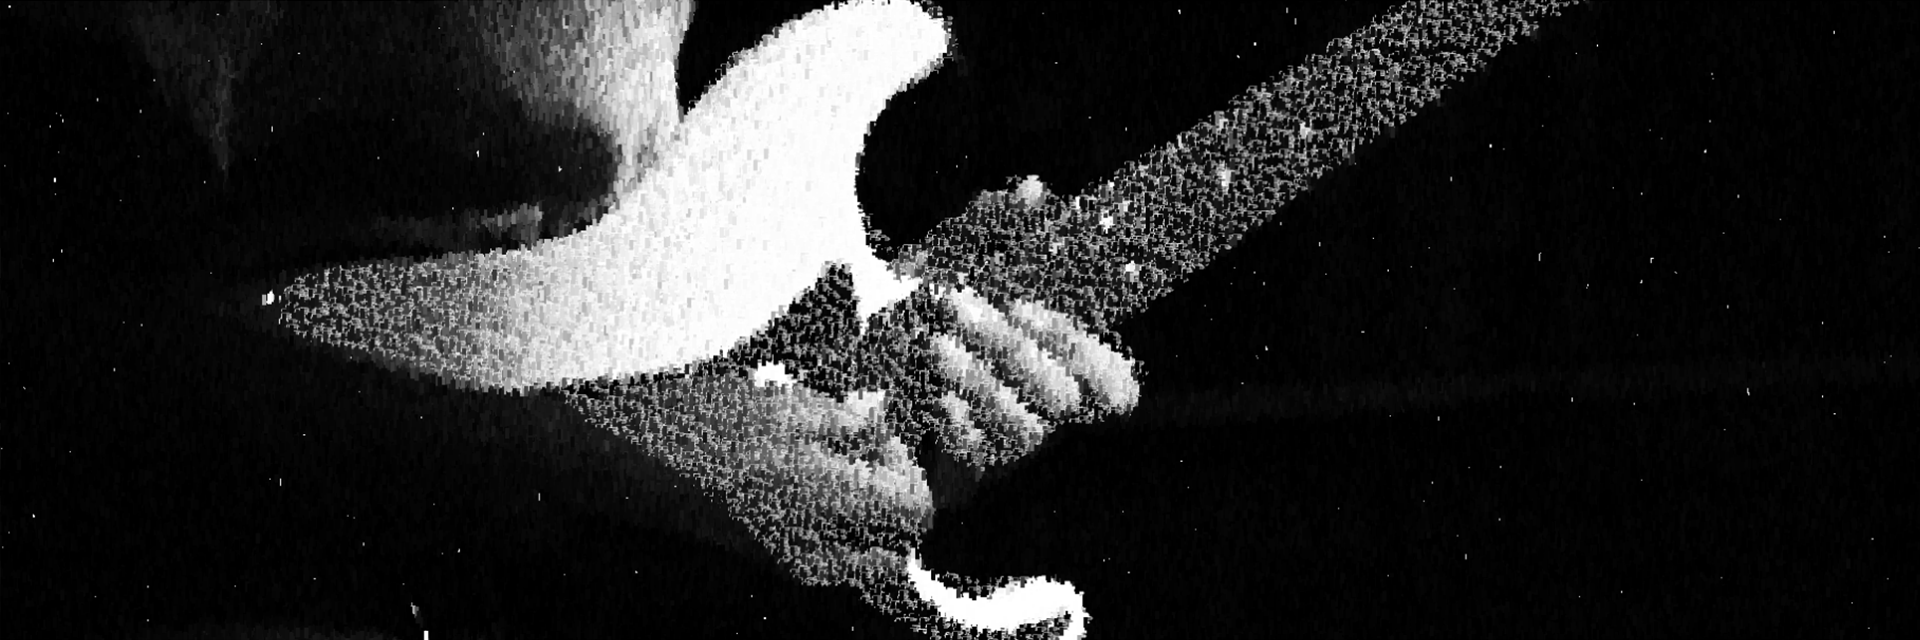
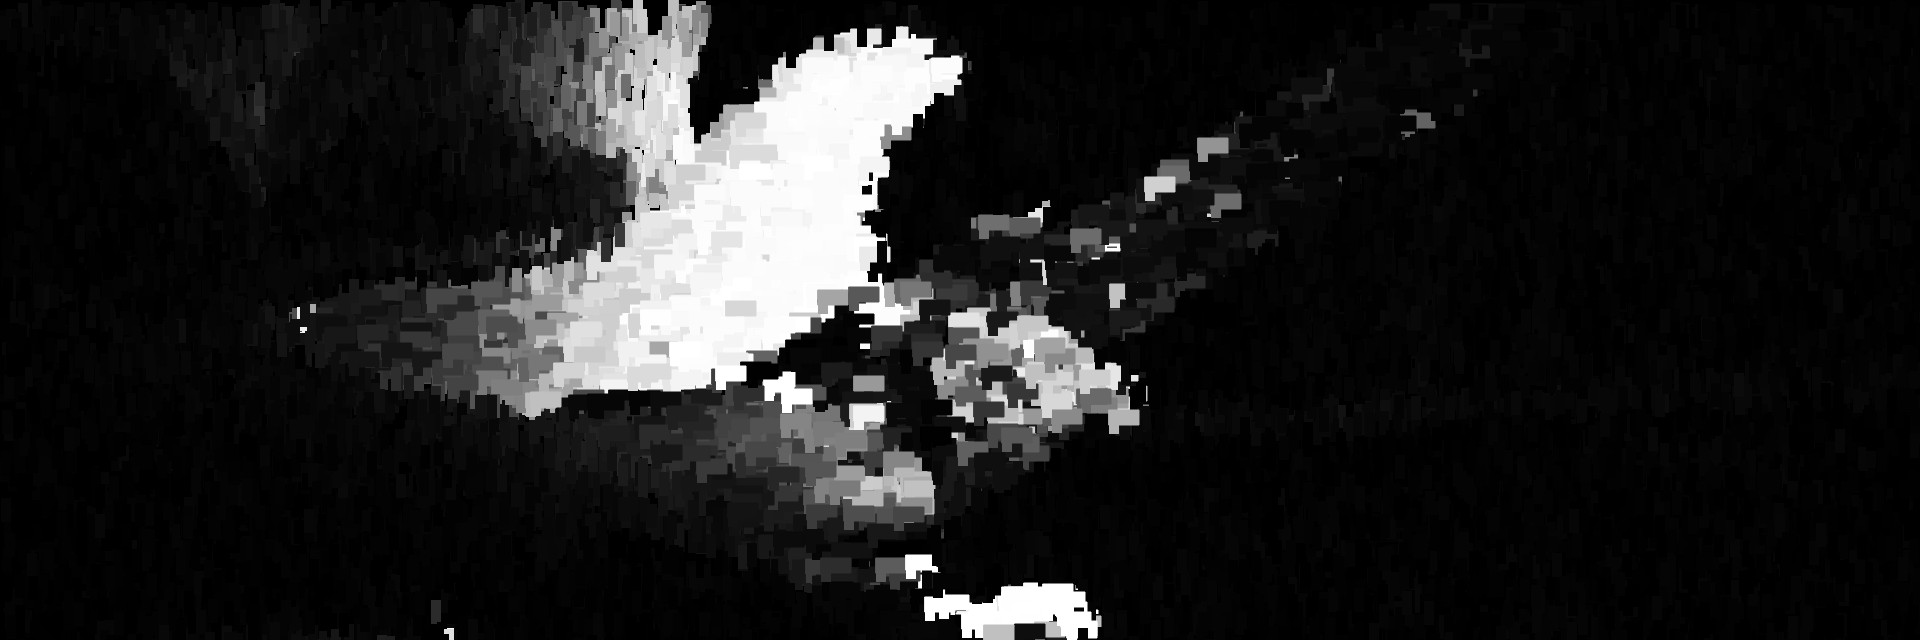
fixed render issue

Changed region(s): [[0.125, 0.0, 0.8125, 1.0], [0.2188, 0.9375, 0.25, 1.0], [0.125, 0.125, 0.1562, 0.1875]]

diff --git a/sketch.js b/sketch.js
@@ -3,9 +3,9 @@ let maskImg=null;
 let renderCounter=0;
 
 // change these three lines as appropiate
-let sourceFile = "input_2.jpg";
-let maskFile   = "mask_2.png";
-let outputFile = "output_1.png";
+let sourceFile = "input_3.jpg";
+let maskFile   = "mask_3.png";
+let outputFile = "output_3.png";
 let wasteTextFile = "wasteText.png";
 
 function preload() {
@@ -20,14 +20,14 @@ function setup () {
 
   imageMode(CENTER);
   //noStroke();
-  background(255);
+  background(0);
   sourceImg.loadPixels();
   maskImg.loadPixels();
 
 }
 
 function draw () {
-   for(let i=0;i<500;i++) {
+   for(let i=0;i<20000;i++) {
 
 
      let x = floor(random(sourceImg.width));
@@ -40,14 +40,14 @@ function draw () {
 
      let pointSize = 2;
      if (mask[0]> 128) {
-       stroke (255);
-       strokeWeight(.75);
-       rect (x, y, pointSize*4, pointSize);
+       // stroke (255);
+       // strokeWeight(.75);
+       rect (x, y, pointSize*15, pointSize*7.5);
 
      } else
      stroke (0);
      noStroke ();
-     rect (x, y, pointSize*2, pointSize*5);
+     rect (x, y, pointSize*5, pointSize*12);
    }
    //image(wasteTextImg, 1000, 250);
    // textSize (30);
@@ -68,8 +68,8 @@ function draw () {
   //     let pointSize = 30;
   //   rect(x, y, pointSize+20, pointSize-10);
   //   }
-  }
-  renderCounter = renderCounter + 1;
+
+  renderCounter = renderCounter + 15;
   if(renderCounter > 1) {
     console.log("Done!")
     noLoop();
@@ -77,7 +77,7 @@ function draw () {
     //saveArtworkImage(outputFile);
   }
 
-
+}
 // function masked (x,y) {
 // select random word
 

diff --git a/README.md b/README.md
@@ -1,4 +1,3 @@
 ## Creative Coding 2: Custom Pixel
 
-I've updated the second and third images. I really like the horizontal stripes on Cathals shirt, so I'm keen to emphasize that visual aspect of the photo with my p5js drawing. I also really like the way that the white wall on the left makes a good spot to add text. I definitely need to keep trying out different drawing ideas for this image, I'm not happy with where its at at the moment. One idea I have is to create more of a contrast between his hand and the rest of the image, to make it look like the hand is floating/completely separate. For the third image, I want to play with the strong contrast and spotlighting present, and maybe experiment with some larger, blockier drawing styles (maybe getting some inspiration from jason anderson https://www.jasonandersonartist.co.uk/ ). I feel that these images are a good representation of my theme. They portray local artists in very unique and eyegrabbing way, which is ideal when you want to be advertising these artists. It seems that adding text of the artists name as branding is allowed, so when I add that it will make my theme more obvious.
-Still having issues with the non-ending rendering, I've posted in the slack so hopefully I can get some help with that soon.
+Phoebe told me how to stop the constant rendering, so now I'm able to get an actual output which is good. I've increased the size of the rectangles on the butlers image in an attempt to be closer to Jason Andersons style, but I don't think its looking good (its lost the detail of the hands, and looks just too jumbled/messy). My main concern at the moment is that I don't know if my designs are strong enough. I like the look of them (especially the first two) but I just don't know if they are strong enough design wise and coding technicality wise.
